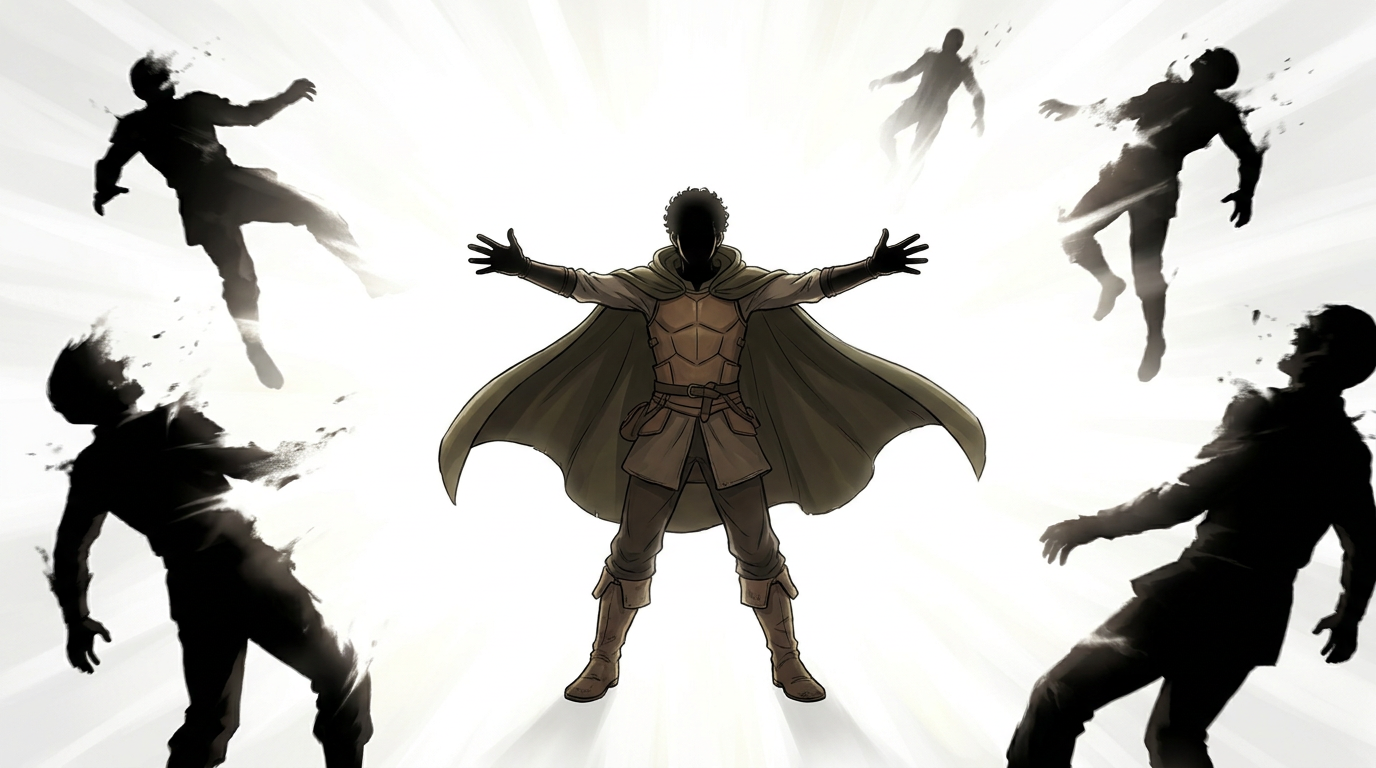
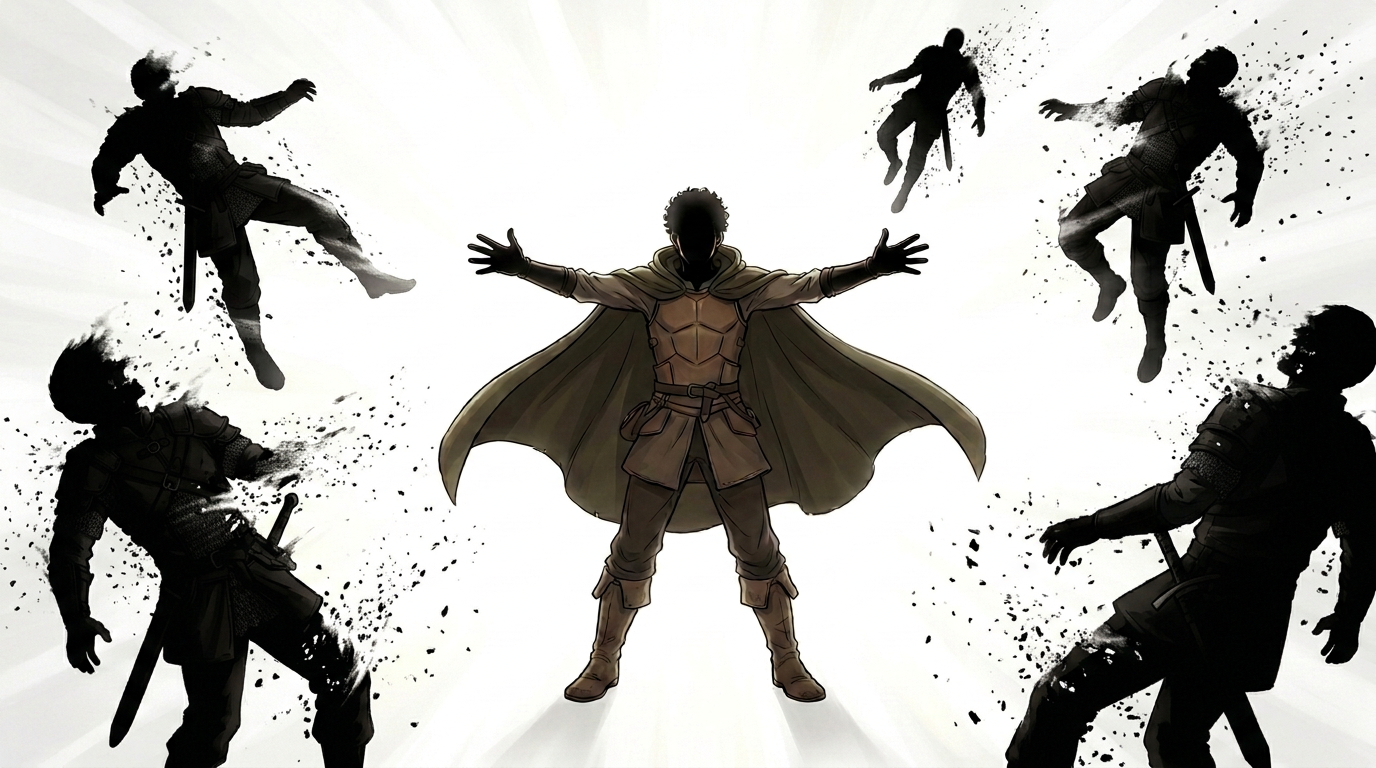
ch7 bgm, new-skill status reveal, and character-likeness CG rerolls
Toward v1.1 (version left at v1.0.3 until release):

- ch7 bgm: open the Healer chapter's troll-fight on bgm_dungeon (was inheriting
  the campfire theme), then return to bgm_campfire at the caravan/healer's camp.
  Dungeon theme intentionally plays only briefly. Echoed in script.md.
- Status screens: a brand-new skill now keeps its title hidden until the reveal
  click, then fades it in BOLD together with its "-> Lv N" (e.g. Air/Light/Dark
  Magic in ch8); already-known skills that merely rose keep their titles shown.
- CG rerolls for character likeness (NB Pro; gen.py gains a --model flag):
  - cg_whiteout: the six disintegrating shadows now read as armored bandits
    (pauldrons/chainmail/hip-sword), blacked-out and crumbling; Avram's central
    black-headed silhouette left untouched.
  - cg_dungeon_d: from-scratch reroll fixing a not-quite-Avram and a weird
    Haurvatat (correct white fringe streak, dark-iron slave collar, clean faces).
  - cg_vigil: reroll grounded in the bg_temple_cot room decor, Avram seated in
    the chair, attendant in the doorway.
- Echo queued script.md sprite/wording edits into script.txt (magical-core
  wording; avram wry at guild hall, campfire two-shot, and the boss-doors beat).

diff --git a/engine.js b/engine.js
@@ -753,6 +753,11 @@ if (typeof document !== "undefined") (function () {
 
         const nm = document.createElement("div"); nm.className = "skill-name";
         nm.textContent = sk.name;
+        // A brand-new skill (never shown before) fades its TITLE in on the reveal click
+        // TOGETHER with its "→ Lv N", and the title shows bold to mark it as newly
+        // acquired — e.g. "Air Magic" stays hidden in ch8 until the click (author 2026-07-06).
+        // (An already-known skill that merely rose keeps its title visible; only "→ Lv N" fades.)
+        if (isNew && !isFirstScreen) nm.classList.add("pending", "skill-name-new");
         const oldv = document.createElement("div"); oldv.className = "skill-old";
         oldv.textContent = isNew ? "" : ("Lv " + (lvl == null ? "—" : (isInc ? prior : lvl)));
         const newv = document.createElement("div"); newv.className = "skill-new";
@@ -777,7 +782,7 @@ if (typeof document !== "undefined") (function () {
   // click: fade the pending "→ Lv N" cells in (nothing already shown moves)
   function revealStatusIncreases() {
     statusRevealed = true;
-    $("status-lines").querySelectorAll(".skill-new.pending").forEach((el) => el.classList.remove("pending"));
+    $("status-lines").querySelectorAll(".pending").forEach((el) => el.classList.remove("pending"));
   }
   function hideStatus() {
     $("status").style.display = "none";

diff --git a/index.html b/index.html
@@ -209,6 +209,8 @@
   }
   #status-lines .status-head:first-child { margin-top: 0; }
   #status-lines .skill-name { text-align: right; white-space: nowrap; font-weight: 400; }
+  /* a brand-new skill's title is bold (it fades in with its "→ Lv N" on the click) */
+  #status-lines .skill-name.skill-name-new { font-weight: 700; }
   #status-lines .skill-old {
     text-align: right; white-space: nowrap; font-variant-numeric: tabular-nums; font-weight: 400;
   }

diff --git a/claude-notes/tools/gen.py b/claude-notes/tools/gen.py
@@ -26,6 +26,7 @@ def main():
     ap.add_argument("--ref", action="append", default=[])
     ap.add_argument("--aspect", default=None)
     ap.add_argument("--retries", type=int, default=3)
+    ap.add_argument("--model", default=MODEL, help="OpenRouter image model id (default: %(default)s)")
     a = ap.parse_args()
 
     key = os.environ["OPENROUTER_KEY"].strip()
@@ -35,7 +36,7 @@ def main():
     content.append({"type": "text", "text": a.prompt})
 
     body = {
-        "model": MODEL,
+        "model": a.model,
         "messages": [{"role": "user", "content": content}],
         "modalities": ["image", "text"],
     }

diff --git a/claude-inputs/script.md b/claude-inputs/script.md
@@ -228,7 +228,7 @@ The nobleman raises his hand and names a higher number.
 
 : [avram neutral L]
 
-Avram holds up a large magical core.  The sort you'd need to be anomalously lucky to find, fighting the class of monsters he looks strong enough to fight.
+Avram holds up a large magical core.  One you'd need to be anomalously lucky to find, fighting the class of monsters he looks strong enough to fight.
 
 : [nobleman irritated R]
 
@@ -386,11 +386,9 @@ Avram: No.
 
 : [cg_bedroll_close, tint off] Closer crop: her asleep against his shoulder, content. His eyes still open.
 
-: [bg_guild_hall | avram neutral L, clerk cheerful-surprise R] Guild interior — clerk's desk, notice board.
+: [bg_guild_hall | avram wry L, clerk cheerful-surprise R] Guild interior — clerk's desk, notice board.
 
 Clerk: Floor nine already?
-
-: [avram wry L]
 
 Avram: We've been lucky.
 
@@ -470,7 +468,7 @@ Her: ...
 
 Avram: I wonder if it's my imagination that I can almost hear you thinking it.
 
-: [bg_camp_night, tint firelight → cg_campfire_shoulder] The two-shot CG (her head on his shoulder)
+: [bg_camp_night, tint firelight → cg_campfire_shoulder | avram wry L, her camp matter-of-fact R] The two-shot CG (her head on his shoulder)
 holds through Avram's opening line, then falls back to sprites.
 
 Avram: You can go ahead and say what you were thinking. I feel like I can still hear it.
@@ -511,6 +509,10 @@ Avram: Something like that.
 
 (Restaged as a three-beat transition — dungeon mishap → walk out → caravan at dusk.)
 
+[bgm: bgm_dungeon]
+
+(The campfire theme gives way to the dungeon theme for the troll-fight open, crossfading in during the ch6→7 fade. It plays only briefly — the dungeon portion is a few beats — then the campfire theme returns at the caravan/healer's camp below.)
+
 : [bg_dungeon_mid] [sfx: sfx_sword] [flash white]
 
 A bad floor, deeper than they should have pushed in one day.
@@ -527,8 +529,8 @@ His magic blasts its head clean off, but his wound is not as fast to heal.
 
 His arm throbs as he walks the road.  Neither of them are expert healers and it's the first serious wound either of them have taken.
 
-: [bg_camp_night, tint dusk] By evening they've fallen in with a traveling caravan. Wagons, cookfires,
-hired guards. The caravan has a healer. (Dusk tint = late evening, not full night.)
+: [bg_camp_night, tint dusk] [bgm: bgm_campfire] By evening they've fallen in with a traveling caravan. Wagons, cookfires,
+hired guards. The caravan has a healer. (Dusk tint = late evening, not full night. The brief dungeon theme gives way back to the warm campfire theme as they reach the caravan.)
 
 By evening they've found a traveling caravan. Wagons, cookfires, hired guards. A healer.
 
@@ -710,11 +712,9 @@ with magic, holding his own — equal-and-rising, not desperate.
 : [sfx: sfx_impact] [flash white] [cg_boss_win] The finishing stroke: the boss falling / coming apart,
 Avram standing spent but victorious.
 
-: [bg_boss_doors | avram_late neutral L, her matter-of-fact R]
+: [bg_boss_doors | avram_late wry L, her matter-of-fact R]
 
 Her: Your strength has risen, Master.
-
-: [avram_late wry L]
 
 Avram: Getting there.
 

diff --git a/claude-notes/USER.md b/claude-notes/USER.md
@@ -815,3 +815,12 @@
 
 - 2026-07-06 (cliff jump clarity + washed-text legibility): a viewer didn't register that Haurvatat had jumped off the cliff. Author's fix: (1) new CG **cg_cliff_edge** — a cg_cliff_two variant with Avram left exactly in place but Haurvatat moved forward to stand on the very lip/brink of the cliff; generated via gen.py from cg_cliff_two + cg_cliff_alone refs, 1376×768. (2) Retimed the aftermath so it auto-advances **1s per frame UP TO cg_cliff_edge** (Goodbye/cliff_two/cliff_edge all at @autoplay 1000), then **@autoplay 3000 kicks in after cliff_edge** so she stands on the brink for 3s before the CUT to cg_cliff_alone (she's gone) — giving the reader time to register poised-then-jumped. cliff_edge→alone stays a hard CUT (abrupt vanish). (3) Also echoed the `|`-pause waits the author added to script.md in Skagganauk's "When the world has stayed in its course too long | ... | they come." line.
   - **Washed Skagganauk text legibility**: black Cinzel on a half-white-faded CG (the "over"/vo-wash mode, boxless, sat low) was still hard to read, worse after being moved down. Author's fix (NOT an outline, NOT the old scrim): a **soft white blur strictly beneath the black glyphs** — `#volayer.vo-wash .voline { text-shadow: 0 0 0.55cqh #fff ×3 }` (≈blur radius 4). Lifts the void-black letters off the busy faded foliage without touching the glyphs. Verified by headless screenshot over the ch1 forest wash. Consistent with the standing rule: Skagganauk's glyphs stay pure void-black, legibility fixes go BEHIND them.
+
+- 2026-07-06 (ch7 bgm + status-screen skill reveal + character-likeness CG rerolls, toward v1.1): batch of fixes, author reviewing before commit.
+  - **ch7 bgm**: ch7 (Healer) opens in a dungeon (troll fight) then walks to the caravan/healer's camp. Added `@bgm bgm_dungeon` at ch7 start (was inheriting bgm_campfire from ch6) and `@bgm bgm_campfire` back at the `bg_camp_night` healer's-camp beat. Author flagged the dungeon theme thus plays only briefly — intended. Echoed to script.md.
+  - **Status-screen NEW-skill reveal**: on non-first status screens, a brand-new skill (never shown before) now hides its TITLE until the reveal click and fades it in **bold** together with its `→ Lv N` (e.g. Air/Light/Dark Magic in ch8). Already-known skills that merely rose keep their titles visible; only `→ Lv N` fades. Impl: engine.js showStatus adds `pending`+`skill-name-new` to the name cell when `isNew && !isFirstScreen`; revealStatusIncreases now clears ALL `.pending` in #status-lines; CSS `.skill-name.skill-name-new{font-weight:700}`. NB: the SLAVE (Haurvatat) block first appears in ch8, so her Wolf-School row also bolds/fades-in (engine has no prior for her) — author aware.
+  - **Character-likeness CG rerolls** (all via NB Pro = google/gemini-3-pro-image; added `--model` flag to gen.py):
+    - **cg_whiteout**: the six disintegrating shadows around Avram were reading as "goons in business suits". Regenerated (flash edit, refs: current whiteout + slavetaker.easy-menace) so they read as armored mercenary BANDITS (pauldrons/chainmail/baldric/hip-sword), then per author made them MORE blacked-out + more disintegrating while KEEPING Avram's central black-headed silhouette untouched. Final = v4, promoted.
+    - **cg_dungeon_d** (not in make_cg_jobs — separate CG): had a not-quite-Avram + "weird Haurvatat" (hair wrongly split half-white; missing collar; awkward face). Flash EDITS kept producing weird faces → author suggested a different generator / from-scratch. **NB Pro from-scratch** (refs: avram_traveler_master + her_armor_master) gave a clean full-body two-shot (correct white FRINGE streak, dark-iron slave collar, natural faces). Promoted. LESSON: when flash edits keep mangling faces, a from-scratch NB Pro reroll beats iterating edits.
+    - **cg_vigil**: Avram wasn't reading as reference-Avram. Tried flash edit, NB Pro edit, NB Pro from-scratch, and NB Pro with **bg_temple_cot as a room reference**. KEY FINDING: feeding bg_temple_cot (which shows Haurvatat on her side at a fixed side-on angle) makes NB Pro copy that exact viewpoint AND her side-lying pose — it would not reangle or put her on her back, because the room reference dominates. Author settled on **room2** ("good enough") — grounded in the real room decor, Avram in the chair, attendant in the doorway. Promoted.
+  - Version stays **v1.0.3**; author is driving toward a **v1.1** once all fixes land (bump at release, not per-fix).